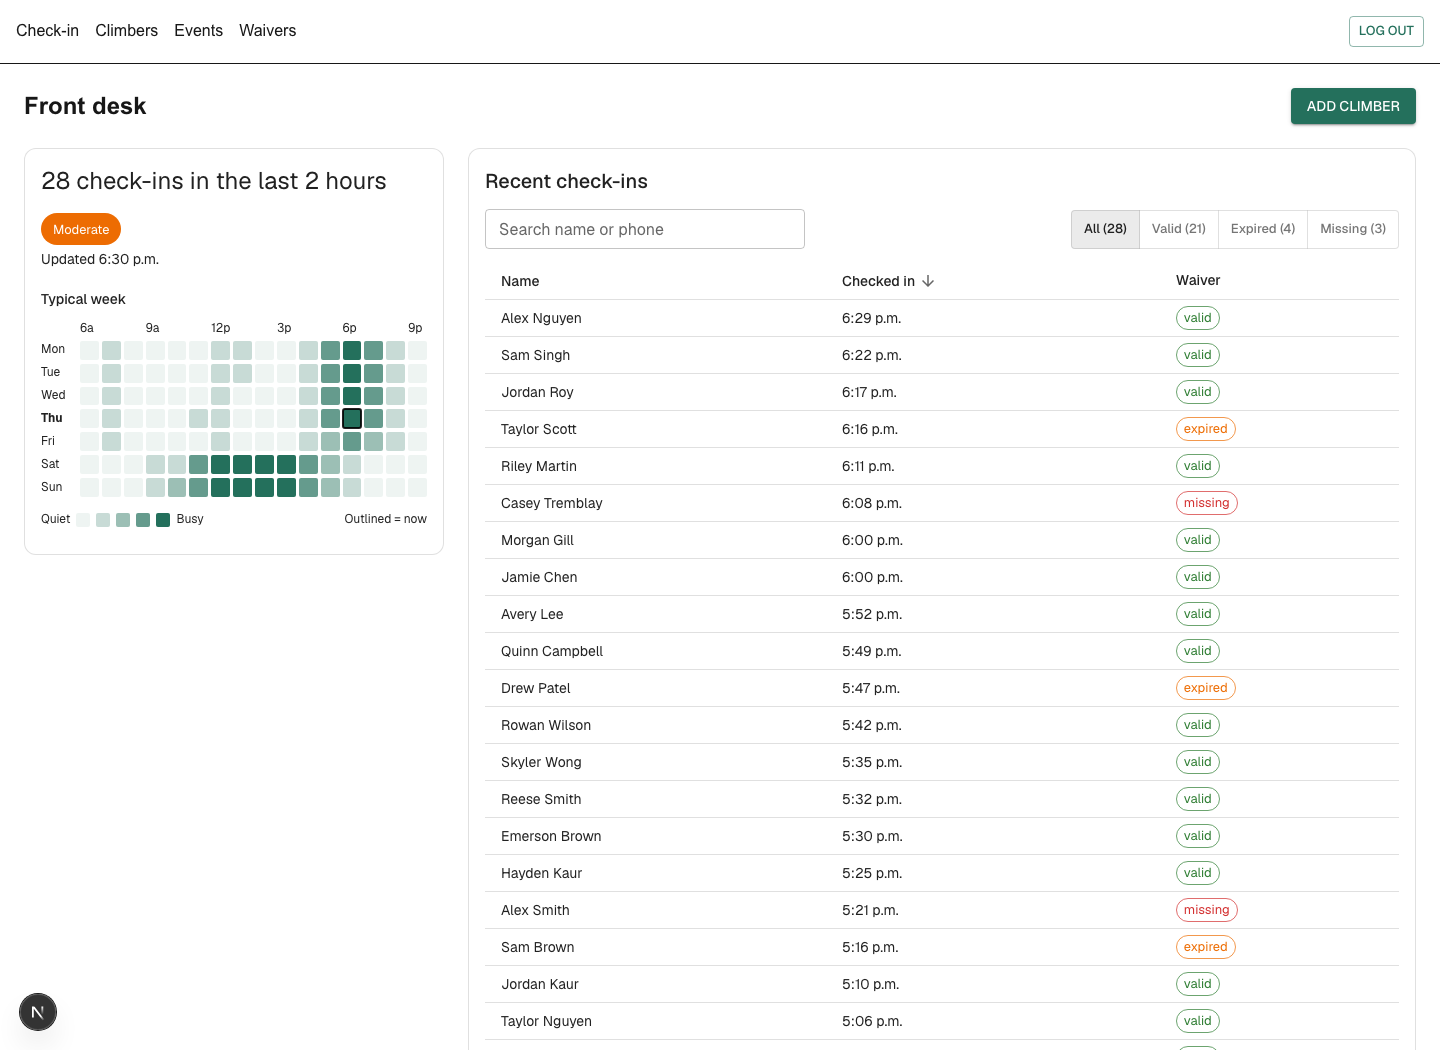
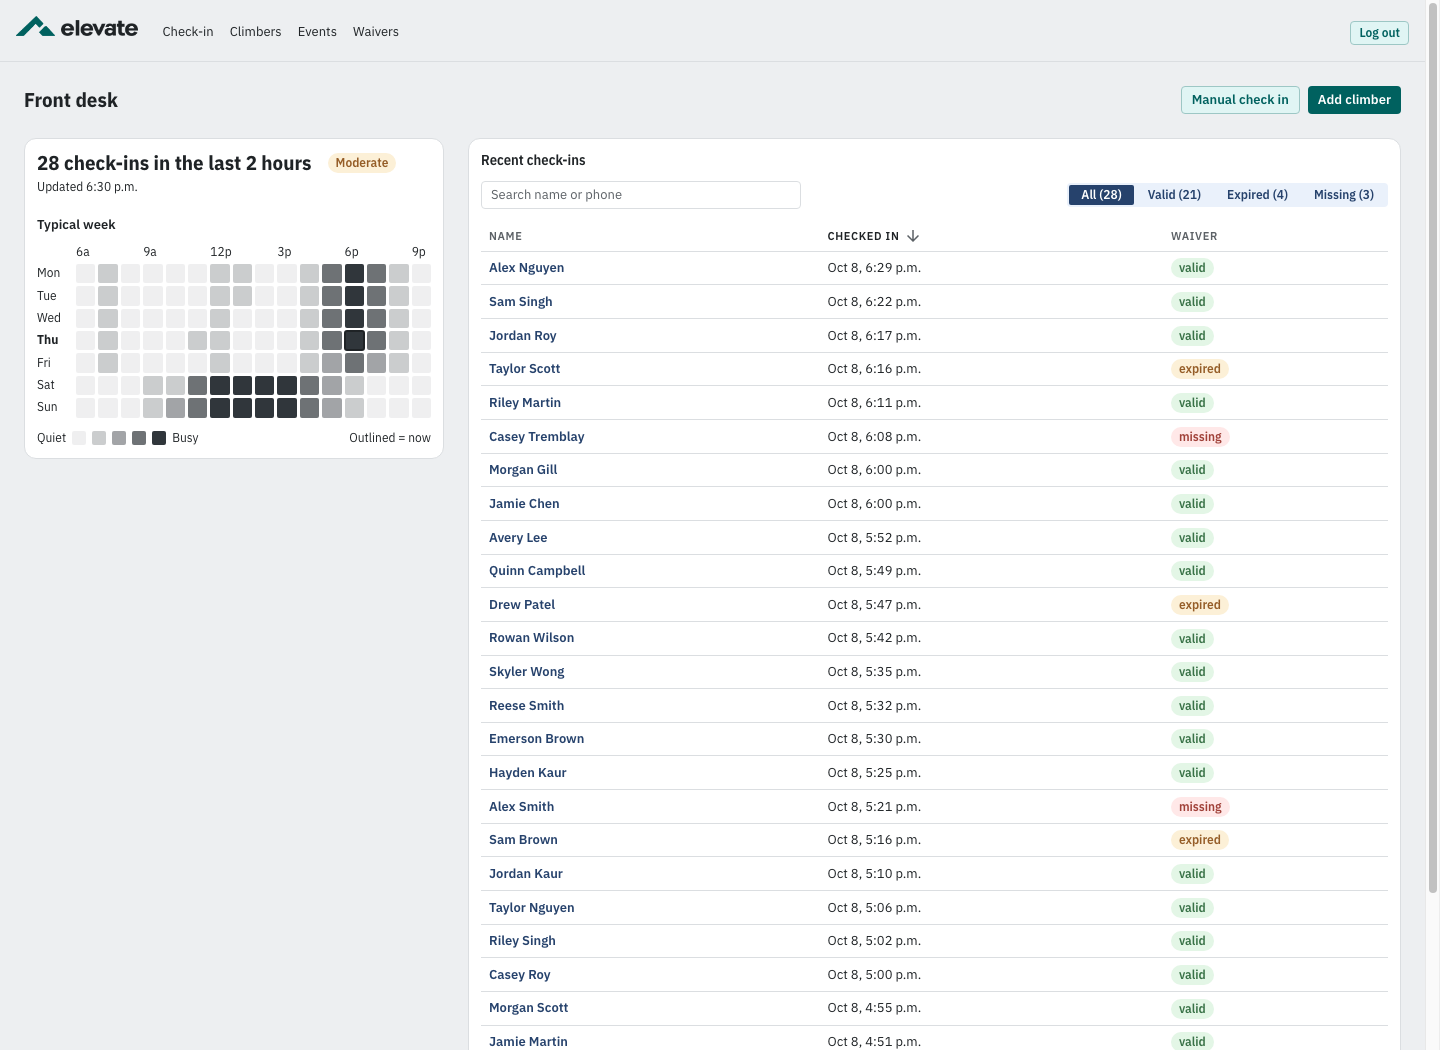
docs: sync product page branding (#24)

diff --git a/docs/styles.css b/docs/styles.css
@@ -10,6 +10,8 @@
   --white: #fff;
   --line: #dce3dc;
   --orange: #eb8a52;
+  --brand-teal: #00615f;
+  --brand-ink: #1f2326;
   --serif: "Iowan Old Style", "Palatino Linotype", "Book Antiqua", Georgia, serif;
   --sans: Inter, ui-sans-serif, system-ui, -apple-system, BlinkMacSystemFont, "Segoe UI", sans-serif;
 }
@@ -75,28 +77,27 @@ summary:focus-visible {
   display: inline-flex;
   flex: 0 0 auto;
   align-items: center;
-  gap: 0.48rem;
+  gap: 0.14rem;
   color: var(--ink);
-  font-size: 1.38rem;
-  font-weight: 750;
-  letter-spacing: -0.075em;
   text-decoration: none;
 }
 
 .brand-mark {
-  width: 32px;
-  height: 32px;
-  overflow: visible;
-  fill: none;
-  stroke: var(--green);
-  stroke-linecap: round;
-  stroke-linejoin: round;
-  stroke-width: 2.5;
+  width: 39px;
+  height: 20px;
+  flex: 0 0 auto;
+  background-color: var(--brand-teal);
+  -webkit-mask: url("assets/brand/mark.png") center / contain no-repeat;
+  mask: url("assets/brand/mark.png") center / contain no-repeat;
 }
 
-.brand-mark circle {
-  fill: var(--orange);
-  stroke: none;
+.brand-wordmark {
+  width: 77px;
+  height: 16px;
+  flex: 0 0 auto;
+  background-color: var(--brand-ink);
+  -webkit-mask: url("assets/brand/wordmark.png") center / contain no-repeat;
+  mask: url("assets/brand/wordmark.png") center / contain no-repeat;
 }
 
 .main-nav {
@@ -597,16 +598,6 @@ h2 span {
   flex: 0 0 auto;
 }
 
-.closing-hold {
-  position: absolute;
-  right: 21%;
-  bottom: -140px;
-  color: rgba(255, 255, 255, 0.06);
-  font-size: 25rem;
-  line-height: 1;
-  transform: rotate(17deg);
-}
-
 .site-footer {
   display: flex;
   width: min(100% - 4rem, 1280px);
@@ -618,12 +609,17 @@ h2 span {
 }
 
 .footer-brand {
-  font-size: 1.18rem;
+  gap: 0.11rem;
 }
 
 .footer-brand .brand-mark {
-  width: 27px;
-  height: 27px;
+  width: 31px;
+  height: 16px;
+}
+
+.footer-brand .brand-wordmark {
+  width: 62px;
+  height: 13px;
 }
 
 .site-footer > p {
@@ -719,15 +715,6 @@ h2 span {
     justify-content: space-between;
     padding: 0.75rem 0 0.5rem;
     gap: 0.6rem;
-  }
-
-  .brand {
-    font-size: 1.18rem;
-  }
-
-  .brand-mark {
-    width: 28px;
-    height: 28px;
   }
 
   .header-cta {
@@ -903,12 +890,6 @@ h2 span {
 
   .closing-cta h2 {
     font-size: clamp(2.9rem, 12vw, 4rem);
-  }
-
-  .closing-hold {
-    right: -3rem;
-    bottom: -5rem;
-    font-size: 16rem;
   }
 
   .site-footer {

diff --git a/docs/index.html b/docs/index.html
@@ -21,12 +21,8 @@
     <a class="skip-link" href="#main">Skip to content</a>
     <header class="site-header">
       <a class="brand" href="#" aria-label="Elevate home">
-        <svg class="brand-mark" viewBox="0 0 36 36" aria-hidden="true">
-          <path d="M4 31 17.6 5 32 31H4Z"></path>
-          <path d="m12 23 5.6-10L23 23"></path>
-          <circle cx="25.5" cy="12" r="2"></circle>
-        </svg>
-        <span>elevate</span>
+        <span class="brand-mark" aria-hidden="true"></span>
+        <span class="brand-wordmark" aria-hidden="true"></span>
       </a>
       <nav class="main-nav" aria-label="Main navigation">
         <a href="#product">Product</a>
@@ -184,18 +180,13 @@
           target="_blank"
           rel="noreferrer"
         >Follow the project <span aria-hidden="true">↗</span></a>
-        <div class="closing-hold" aria-hidden="true">✳</div>
       </section>
     </main>
 
     <footer class="site-footer">
       <a class="brand footer-brand" href="#" aria-label="Elevate home">
-        <svg class="brand-mark" viewBox="0 0 36 36" aria-hidden="true">
-          <path d="M4 31 17.6 5 32 31H4Z"></path>
-          <path d="m12 23 5.6-10L23 23"></path>
-          <circle cx="25.5" cy="12" r="2"></circle>
-        </svg>
-        <span>elevate</span>
+        <span class="brand-mark" aria-hidden="true"></span>
+        <span class="brand-wordmark" aria-hidden="true"></span>
       </a>
       <p>Front desk clarity. A better member experience.</p>
       <p class="footer-note">Early product preview · Demo data only</p>

diff --git a/EXCHANGE_FLOOR.md b/EXCHANGE_FLOOR.md
@@ -29,7 +29,7 @@ It exists so that one person's agent never repeats, contradicts or breaks what a
 
 | Started (UTC) | Developer | AI tool | Branch | Area / files | Status |
 |---|---|---|---|---|---|
-| 2026-10-15 | @ekamgill | Copilot CLI | `feature/24-product-page` | `docs/index.html`, `docs/styles.css`, `EXCHANGE_FLOOR.md` | Done (local; uncommitted) |
+| 2026-10-16 | @ekamgill | Copilot CLI | `feature/24-update-logo-product-page` | `docs/index.html`, `docs/styles.css`, `docs/assets/`, `EXCHANGE_FLOOR.md` | Done (local; uncommitted) |
 | 2026-10-11 | @agamk | Claude Code | `docs/19-exchange-floor` | `EXCHANGE_FLOOR.md`, `AGENTS.md`, agent config | In review |
 | 2026-10-11 | @sethmess | Claude Code | `feature/38-busyness-tracker` | `src/features/analytics/`, `src/features/climbers/` (membership card), `src/lib/fuzzy.ts`, `/`, `/desk` and `/me` pages, MUI setup | In review |
 | 2026-10-13 | @agamkamran02 | Claude Code | `feature/33-account-creation-customer` | `src/features/climbers/*`, `src/app/join` | In review |
@@ -63,6 +63,22 @@ Copy this block to the top of the timeline.
 ## Timeline
 
 Newest first.
+
+### 2026-10-16 03:47 UTC: Update product page logo and app screenshots
+
+- **Developer:** @ekamgill
+- **AI tool / model:** Copilot CLI
+- **Issue / PR:** StealthStartup-455/elevate-docs#24 / PR pending
+- **Branch:** `feature/24-update-logo-product-page`
+- **What the agent did:**
+  - Replaced the hand-drawn product-page logo with the app's current mark and wordmark.
+  - Replaced the front-desk and member screenshots with fresh captures of the current app styling and demo data.
+  - Removed the decorative star from the bottom of the page.
+- **Files touched:** `docs/index.html`, `docs/styles.css`, `docs/assets/`, `EXCHANGE_FLOOR.md`
+- **Decisions and why:** Used the same transparent logo masks and brand colors as the app; retained existing product-page layouts while updating their screenshots.
+- **Gotchas:** The screenshots are local-app captures using fictional demo data.
+- **Open follow-ups:** None.
+- **Verification:** `npm run lint`, `npm run build`, and `git diff --check` passed; local page and logo/screenshot assets returned HTTP 200; Chrome confirmed all screenshots load, no mobile horizontal overflow at 390px, and no decorative star remains; desktop and mobile page previews inspected.
 
 ### 2026-10-15 23:00 UTC: Add the Elevate logo
 
